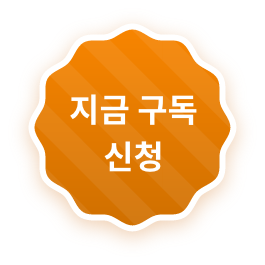
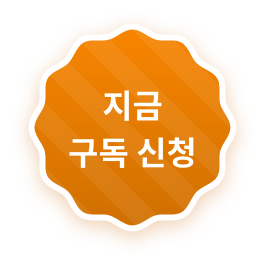
fix: 改行位置, change images

Changed region(s): [[0.2415, 0.5132, 0.7547, 0.6642], [0.2717, 0.3321, 0.7547, 0.483]]

diff --git a/public/stylesheets/lp-style.css b/public/stylesheets/lp-style.css
@@ -202,13 +202,18 @@ ul.merit {
     line-height: 30px;
 }
 .merit.th li p{
-    width: 75%;
+    width: 95%;
     margin: 0 auto;
 }
-
+.merit.th li .th_sp{
+    width: 80%;
+}
 .merit.vn li p{
     width: 80%;
     margin: 0 auto;
+}
+.merit.th li .vn_sp{
+    width: 90%;
 }
 .registration {
     margin-top: 250px;

diff --git a/resources/views/themail/registration.blade.php b/resources/views/themail/registration.blade.php
@@ -97,14 +97,14 @@
             <li>
                 <div>
                     <h2>ค่าโดยสารราคาพิเศษ</h2>
-                    <p>ได้รับข่าวสารเกี่ยวกับค่าโดยสารราคาพิเศษ<br>จำนวนจำกัดจากANA ได้ก่อนใคร</p>                  
+                    <p class="th_sp">ได้รับข่าวสารเกี่ยวกับค่าโดยสารราคาพิเศษ<br>จำนวนจำกัดจากANA ได้ก่อนใคร</p>                  
                 </div>
 
             </li>
             <li>
                 <div>
                     <h2>พบโปรโมชั่นของ ANA</h2>
-                    <p>ไม่พลาดทุกโปรโมชั่นจากเรา ไม่ว่าจะเป็น<br> ข้อมูลแคมเปญ กิจกรรมต่างๆ ในประเทศของท่าน</p>
+                    <p class="th_sp">ไม่พลาดทุกโปรโมชั่นจากเรา<br> ไม่ว่าจะเป็น ข้อมูลแคมเปญ กิจกรรมต่างๆ ในประเทศของท่าน</p>
                 </div>
             </li>
             <li>

diff --git a/resources/views/vnemail/registration.blade.php b/resources/views/vnemail/registration.blade.php
@@ -97,7 +97,7 @@
             <li>
                 <div>
                     <h2>Giá vé siêu đặc biệt</h2>
-                    <p>Bạn sẽ là người đầu tiên nhận thông tin<br> về giá vé đặc biệt giới hạn từ ANA</p>                  
+                    <p class="vn_sp">Bạn sẽ là người đầu tiên nhận thông tin<br> về giá vé đặc biệt giới hạn từ ANA</p>                  
                 </div>
 
             </li>
